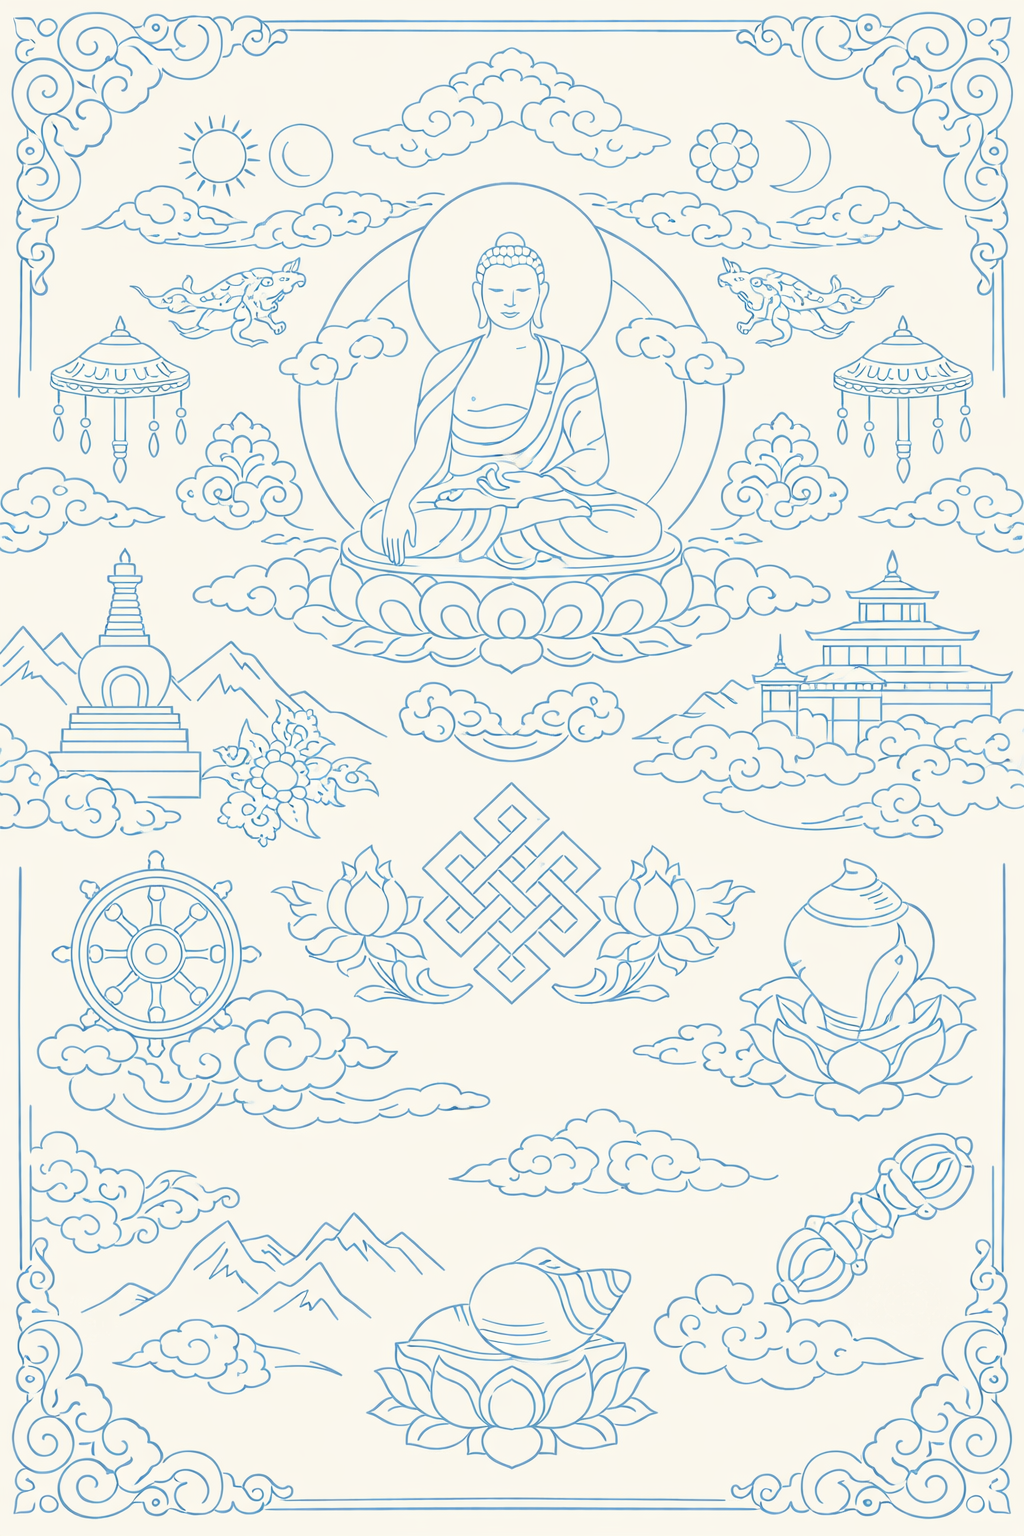
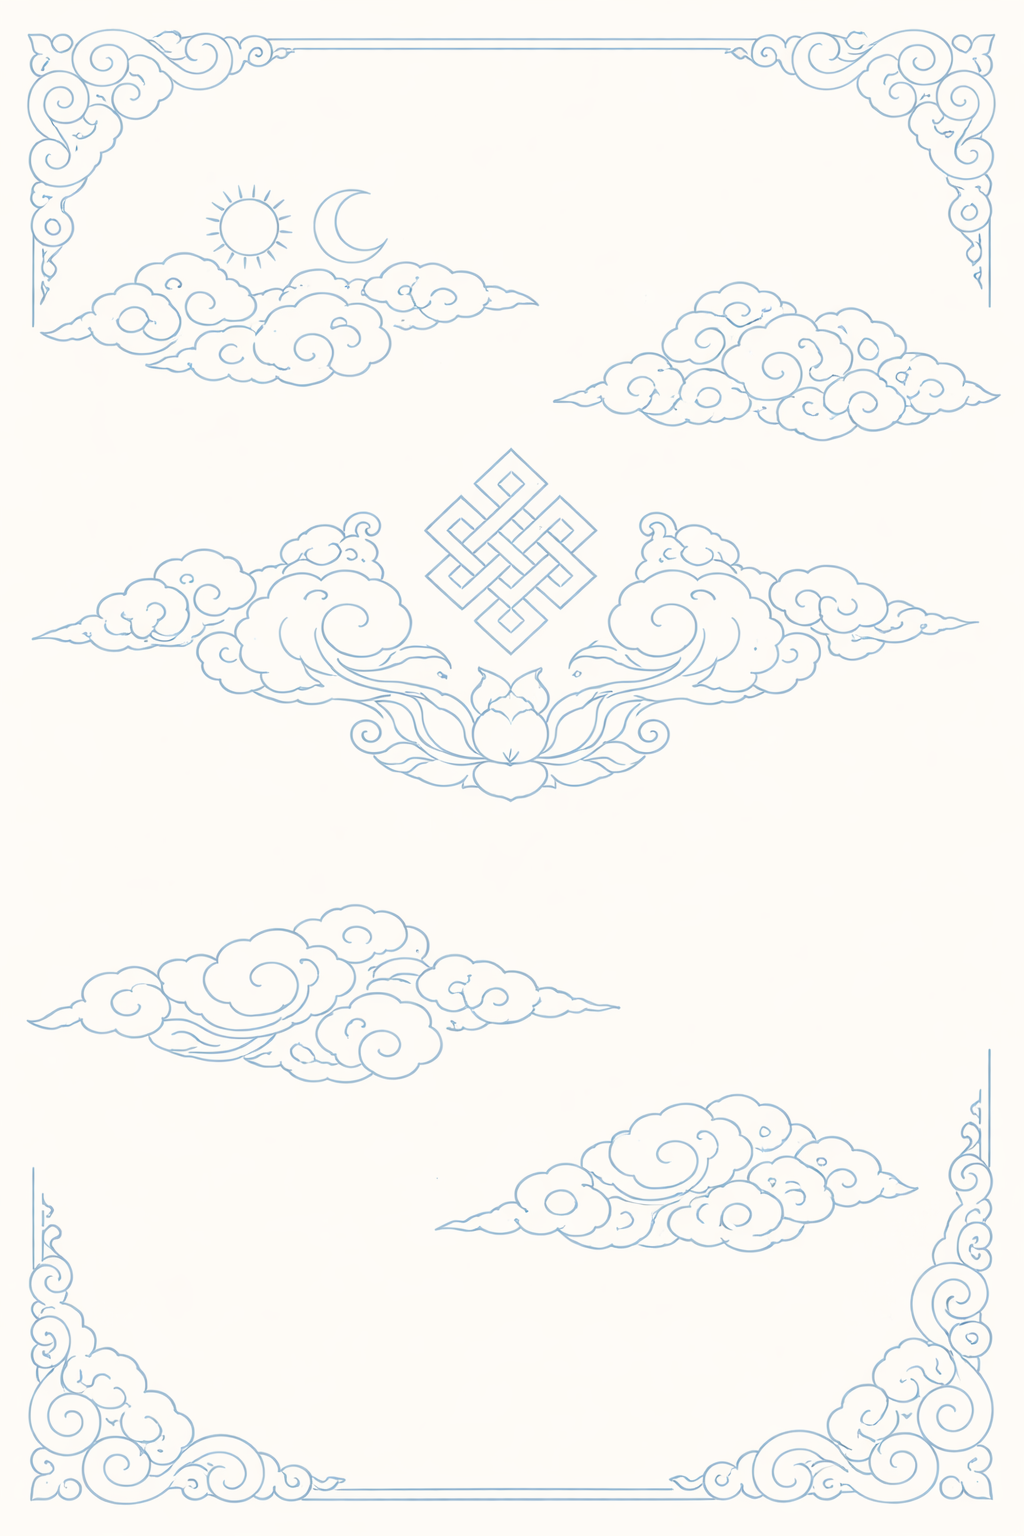
Recenter day view pattern background

Changed region(s): [[0.0, 0.0, 1.0, 1.0], [0.3125, 0.7812, 0.375, 0.8125], [0.0, 0.5625, 0.0312, 0.625]]

diff --git a/src/__tests__/screens/calendar/DayView.test.tsx b/src/__tests__/screens/calendar/DayView.test.tsx
@@ -33,6 +33,32 @@ describe('DayView', () => {
       />
     );
 
-    expect(getByTestId('day-view-events-background')).toHaveStyle({ opacity: 0.25 });
+    const background = getByTestId('day-view-events-background');
+    expect(background).toHaveStyle({ opacity: 0.25 });
+  });
+
+  it('uses a non-repeating background pattern', () => {
+    const { getByTestId } = render(
+      <DayView
+        selectedDate={new Date(2026, 1, 10)}
+        onBack={jest.fn()}
+        events={[]}
+      />
+    );
+
+    expect(getByTestId('day-view-events-background').props.resizeMode).toBe('cover');
+  });
+
+  it('centers the background pattern', () => {
+    const { getByTestId } = render(
+      <DayView
+        selectedDate={new Date(2026, 1, 10)}
+        onBack={jest.fn()}
+        events={[]}
+      />
+    );
+
+    const background = getByTestId('day-view-events-background');
+    expect(background).toHaveStyle({ transform: [{ translateX: -120 }, { translateY: -180 }, { scale: 1 }] });
   });
 });

diff --git a/src/screens/calendar/DayView.tsx b/src/screens/calendar/DayView.tsx
@@ -90,7 +90,7 @@ const DayView: React.FC<DayViewProps> = ({
         <Image
           source={eventsBackground}
           style={styles.eventsPatternImage}
-          resizeMode="repeat"
+          resizeMode="cover"
           testID="day-view-events-background"
         />
         <ScrollView style={styles.eventsContainer}>
@@ -186,11 +186,12 @@ const styles = StyleSheet.create({
   },
   eventsBackground: {
     flex: 1,
-    position: 'relative',
+    overflow: 'hidden',
   },
   eventsPatternImage: {
     ...StyleSheet.absoluteFillObject,
     opacity: 0.25,
+    transform: [{ translateX: -120 }, { translateY: -180 }, { scale: 1 }],
   },
   eventsList: {
     padding: 20,
